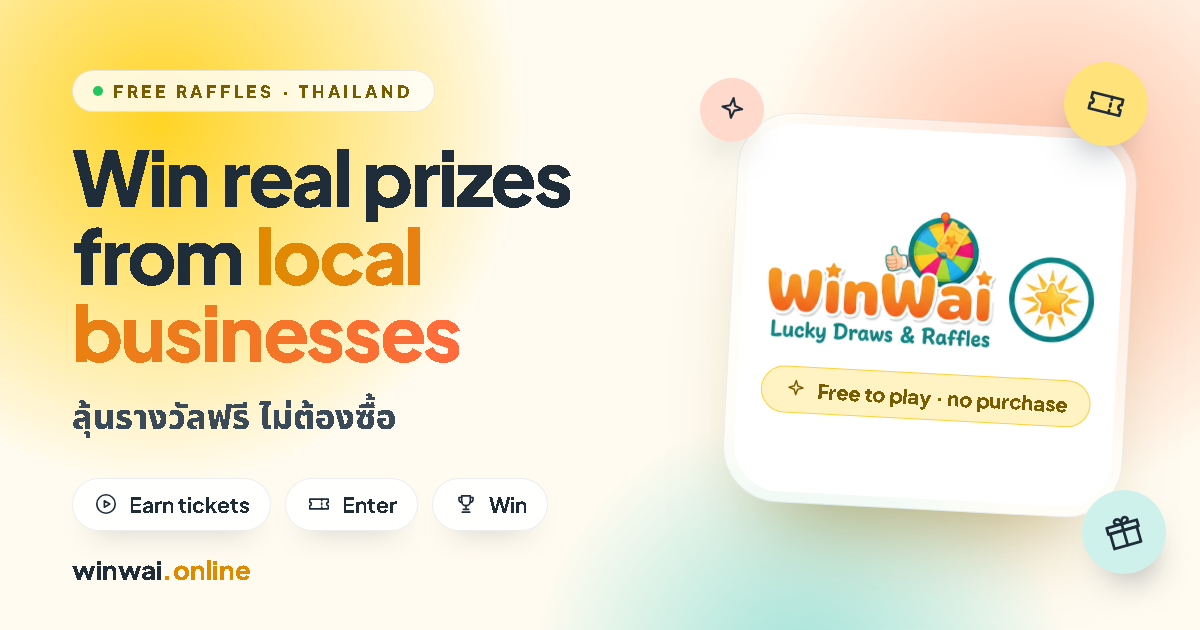
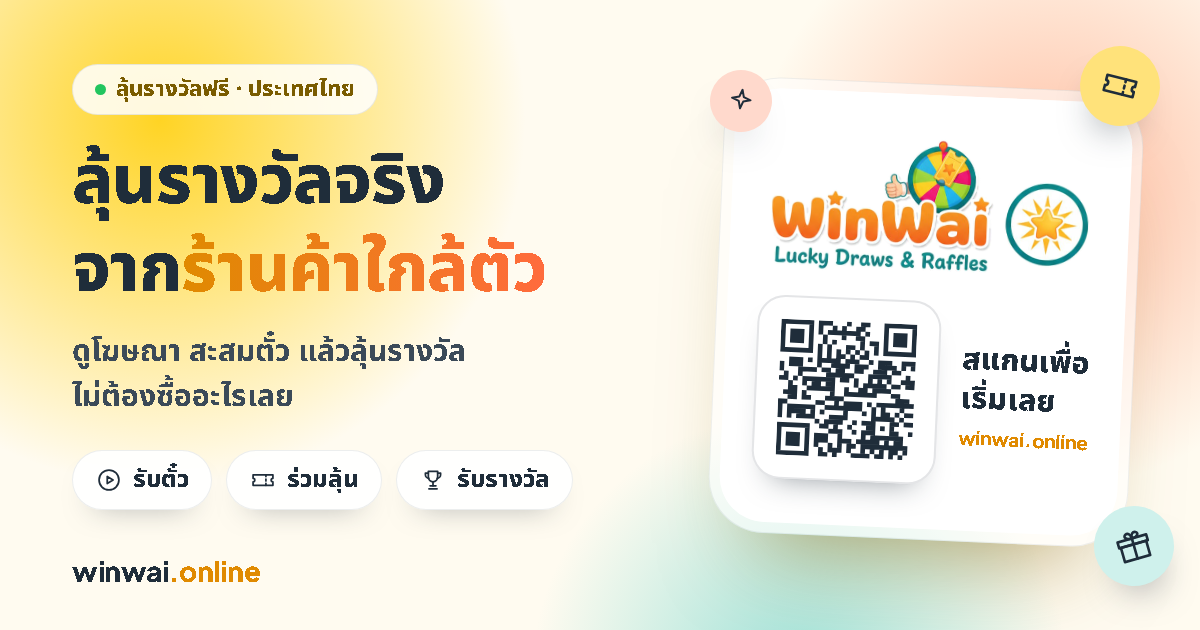
feat(seo): Thai share image with a QR code to winwai.online

diff --git a/frontend/design/og-image.html b/frontend/design/og-image.html
@@ -1,17 +1,20 @@
 <!doctype html>
-<!-- Source of public/og-image.png (1200x630 share image). Regenerate with headless Edge/Chrome:
+<!-- Source of public/og-image.png (1200x630 share image, Thai, with a QR code to https://winwai.online/).
+     The QR is inline SVG made with: python -m pip install segno; segno.make("https://winwai.online/", error="h").svg_inline(scale=1, border=0, dark="#1F2D3A", light=None, omitsize=True)
+     Regenerate the PNG with headless Edge/Chrome:
      msedge --headless --hide-scrollbars --window-size=1200,630 --virtual-time-budget=10000 --screenshot=public/og-image.png file:///<path>/design/og-image.html -->
-<html>
+
+<html lang="th">
 <head>
 <meta charset="utf-8" />
 <link rel="preconnect" href="https://fonts.googleapis.com" />
 <link rel="preconnect" href="https://fonts.gstatic.com" crossorigin />
-<link href="https://fonts.googleapis.com/css2?family=Noto+Sans+Thai:wght@700;800&family=Plus+Jakarta+Sans:wght@500;700;800&display=swap" rel="stylesheet" />
+<link href="https://fonts.googleapis.com/css2?family=Noto+Sans+Thai:wght@500;700;800&family=Plus+Jakarta+Sans:wght@700;800&display=swap" rel="stylesheet" />
 <style>
   * { box-sizing: border-box; margin: 0; padding: 0; }
   html, body { width: 1200px; height: 630px; overflow: hidden; }
   body {
-    font-family: 'Plus Jakarta Sans', 'Noto Sans Thai', system-ui, sans-serif;
+    font-family: 'Noto Sans Thai', 'Plus Jakarta Sans', system-ui, sans-serif;
     color: #1F2D3A;
     background: #FFFBF0;
     position: relative;
@@ -21,53 +24,55 @@
   .o2 { width: 620px; height: 620px; right: -160px; top: -120px; background: radial-gradient(circle at 50% 50%, rgba(255,138,96,0.55), rgba(255,255,255,0) 68%); }
   .o3 { width: 560px; height: 560px; right: 120px; bottom: -330px; background: radial-gradient(circle at 50% 50%, rgba(78,205,196,0.55), rgba(255,255,255,0) 68%); }
 
-  .left { position: absolute; left: 72px; top: 70px; width: 640px; }
+  .left { position: absolute; left: 72px; top: 64px; width: 640px; }
   .eyebrow {
     display: inline-flex; align-items: center; gap: 10px;
-    background: rgba(255,255,255,0.8); border: 1px solid rgba(44,62,80,0.10);
-    border-radius: 999px; padding: 9px 20px;
-    font-size: 17px; font-weight: 800; letter-spacing: 0.22em; text-transform: uppercase; color: #7A5C00;
+    background: rgba(255,255,255,0.85); border: 1px solid rgba(44,62,80,0.10);
+    border-radius: 999px; padding: 8px 22px;
+    font-size: 22px; font-weight: 800; color: #7A5C00;
   }
-  .dot { width: 10px; height: 10px; border-radius: 50%; background: #22C55E; }
-  h1 { margin-top: 26px; font-size: 76px; line-height: 1.02; font-weight: 800; letter-spacing: -0.03em; }
+  .dot { width: 11px; height: 11px; border-radius: 50%; background: #22C55E; }
+  h1 { margin-top: 24px; font-size: 68px; line-height: 1.3; font-weight: 800; letter-spacing: -0.01em; }
   h1 span { background: linear-gradient(90deg, #E08A00, #FF6B3D); -webkit-background-clip: text; background-clip: text; color: transparent; }
-  .thai { margin-top: 22px; font-family: 'Noto Sans Thai', 'Plus Jakarta Sans', sans-serif; font-size: 34px; font-weight: 800; color: #3B4A58; }
-  .chips { margin-top: 34px; display: flex; gap: 14px; }
+  .sub { margin-top: 14px; font-size: 30px; line-height: 1.5; font-weight: 700; color: #3B4A58; }
+  .chips { margin-top: 30px; display: flex; gap: 14px; }
   .chip {
     display: flex; align-items: center; gap: 10px;
-    background: rgba(255,255,255,0.9); border: 1px solid rgba(44,62,80,0.09);
-    border-radius: 999px; padding: 12px 20px; font-size: 21px; font-weight: 700;
+    background: rgba(255,255,255,0.92); border: 1px solid rgba(44,62,80,0.09);
+    border-radius: 999px; padding: 11px 22px; font-size: 24px; font-weight: 800;
     box-shadow: 0 16px 30px -22px rgba(31,45,58,0.5);
   }
-  svg { fill: none; stroke: #1F2D3A; stroke-width: 1.5; stroke-linecap: round; stroke-linejoin: round; }
+  svg.i { fill: none; stroke: #1F2D3A; stroke-width: 1.5; stroke-linecap: round; stroke-linejoin: round; }
 
-  /* right: nested bezel card holding the logo */
   .shell {
-    position: absolute; right: 70px; top: 120px; width: 400px; height: 390px;
+    position: absolute; right: 64px; top: 84px; width: 420px; height: 456px;
     padding: 10px; border-radius: 56px;
     background: rgba(255,255,255,0.55); border: 1.5px solid rgba(44,62,80,0.08);
-    transform: rotate(3deg);
+    transform: rotate(2.5deg);
     box-shadow: 0 60px 90px -50px rgba(122,92,0,0.55);
   }
   .core {
     width: 100%; height: 100%; border-radius: 46px; background: #fff;
-    display: flex; flex-direction: column; align-items: center; justify-content: center; gap: 22px;
+    display: flex; flex-direction: column; align-items: center; justify-content: center; gap: 26px;
     box-shadow: inset 0 2px 2px rgba(255,255,255,0.9);
   }
-  .core img { width: 330px; height: auto; }
-  .tag {
-    display: flex; align-items: center; gap: 10px;
-    background: #FFF3C4; border: 1px solid rgba(255,194,0,0.7); border-radius: 999px;
-    padding: 10px 22px; font-size: 20px; font-weight: 800; color: #7A5C00;
+  .core img.logo { width: 320px; height: auto; }
+  .scan { display: flex; align-items: center; gap: 22px; }
+  .qr {
+    width: 184px; height: 184px; padding: 22px; border-radius: 28px; background: #fff;
+    border: 2px solid rgba(31,45,58,0.12);
+    box-shadow: 0 18px 30px -20px rgba(31,45,58,0.5);
   }
+  .qr svg { width: 100%; height: 100%; display: block; }
+  .scan-text { font-size: 30px; line-height: 1.3; font-weight: 800; }
+  .scan-text small { display: block; margin-top: 6px; font-family: 'Plus Jakarta Sans', sans-serif; font-size: 19px; font-weight: 800; color: #E08A00; }
 
   .float { position: absolute; }
-  .f1 { right: 52px; top: 62px; transform: rotate(14deg); }
-  .f2 { right: 470px; bottom: 44px; transform: rotate(-12deg); }
-  .f3 { right: 34px; bottom: 56px; transform: rotate(-16deg); }
-  .f4 { left: 700px; top: 78px; transform: rotate(8deg); }
-  .disc { width: 84px; height: 84px; border-radius: 42px; display: flex; align-items: center; justify-content: center; box-shadow: 0 24px 36px -22px rgba(31,45,58,0.55); }
-  .url { position: absolute; left: 72px; bottom: 44px; font-size: 26px; font-weight: 800; color: #1F2D3A; letter-spacing: -0.01em; }
+  .f1 { right: 40px; top: 46px; transform: rotate(14deg); }
+  .f3 { right: 26px; bottom: 44px; transform: rotate(-16deg); }
+  .f4 { left: 710px; top: 70px; transform: rotate(8deg); }
+  .disc { width: 80px; height: 80px; border-radius: 40px; display: flex; align-items: center; justify-content: center; box-shadow: 0 24px 36px -22px rgba(31,45,58,0.55); }
+  .url { position: absolute; left: 72px; bottom: 42px; font-family: 'Plus Jakarta Sans', sans-serif; font-size: 28px; font-weight: 800; letter-spacing: -0.01em; }
   .url b { color: #E08A00; }
 </style>
 </head>
@@ -75,26 +80,29 @@
   <div class="orb o1"></div><div class="orb o2"></div><div class="orb o3"></div>
 
   <div class="left">
-    <div class="eyebrow"><span class="dot"></span>Free raffles &middot; Thailand</div>
-    <h1>Win real prizes from <span>local businesses</span></h1>
-    <div class="thai">ลุ้นรางวัลฟรี ไม่ต้องซื้อ</div>
+    <div class="eyebrow"><span class="dot"></span>ลุ้นรางวัลฟรี · ประเทศไทย</div>
+    <h1>ลุ้นรางวัลจริง<br />จาก<span>ร้านค้าใกล้ตัว</span></h1>
+    <div class="sub">ดูโฆษณา สะสมตั๋ว แล้วลุ้นรางวัล<br />ไม่ต้องซื้ออะไรเลย</div>
     <div class="chips">
-      <div class="chip"><svg width="26" height="26" viewBox="0 0 24 24"><path d="M12 3.5a8.5 8.5 0 1 0 0 17 8.5 8.5 0 0 0 0-17z"/><path d="M10.5 9v6l5-3z"/></svg>Earn tickets</div>
-      <div class="chip"><svg width="26" height="26" viewBox="0 0 24 24"><path d="M3.5 7.5h17v3a1.5 1.5 0 0 0 0 3v3h-17v-3a1.5 1.5 0 0 0 0-3z"/><path d="M14.5 7.5v1.6M14.5 11.2v1.6M14.5 14.9v1.6"/></svg>Enter</div>
-      <div class="chip"><svg width="26" height="26" viewBox="0 0 24 24"><path d="M8 4.5h8v5a4 4 0 0 1-8 0z"/><path d="M8 6H5.5v1.5a3 3 0 0 0 3 3"/><path d="M16 6h2.5v1.5a3 3 0 0 1-3 3"/><path d="M12 13.5V17"/><path d="M9.5 17h5"/><path d="M8.5 19.5h7"/></svg>Win</div>
+      <div class="chip"><svg class="i" width="28" height="28" viewBox="0 0 24 24"><path d="M12 3.5a8.5 8.5 0 1 0 0 17 8.5 8.5 0 0 0 0-17z"/><path d="M10.5 9v6l5-3z"/></svg>รับตั๋ว</div>
+      <div class="chip"><svg class="i" width="28" height="28" viewBox="0 0 24 24"><path d="M3.5 7.5h17v3a1.5 1.5 0 0 0 0 3v3h-17v-3a1.5 1.5 0 0 0 0-3z"/><path d="M14.5 7.5v1.6M14.5 11.2v1.6M14.5 14.9v1.6"/></svg>ร่วมลุ้น</div>
+      <div class="chip"><svg class="i" width="28" height="28" viewBox="0 0 24 24"><path d="M8 4.5h8v5a4 4 0 0 1-8 0z"/><path d="M8 6H5.5v1.5a3 3 0 0 0 3 3"/><path d="M16 6h2.5v1.5a3 3 0 0 1-3 3"/><path d="M12 13.5V17"/><path d="M9.5 17h5"/><path d="M8.5 19.5h7"/></svg>รับรางวัล</div>
     </div>
   </div>
 
   <div class="shell">
     <div class="core">
-      <img src="../public/logo.png" />
-      <div class="tag"><svg width="24" height="24" viewBox="0 0 24 24" style="stroke:#7A5C00"><path d="M12 3.5l1.7 5.3 5.3 1.7-5.3 1.7L12 17.5l-1.7-5.3L5 10.5l5.3-1.7z"/></svg>Free to play &middot; no purchase</div>
+      <img class="logo" src="../public/logo.png" />
+      <div class="scan">
+        <div class="qr"><svg viewBox="0 0 29 29" class="segno"><path class="qrline" stroke="#1f2d3a" d="M0 0.5h7m1 0h3m3 0h1m2 0h2m3 0h7m-29 1h1m5 0h1m1 0h1m2 0h1m1 0h1m2 0h2m4 0h1m5 0h1m-29 1h1m1 0h3m1 0h1m1 0h1m1 0h7m1 0h1m3 0h1m1 0h3m1 0h1m-29 1h1m1 0h3m1 0h1m2 0h1m3 0h1m2 0h2m4 0h1m1 0h3m1 0h1m-29 1h1m1 0h3m1 0h1m2 0h1m1 0h1m5 0h1m1 0h2m1 0h1m1 0h3m1 0h1m-29 1h1m5 0h1m1 0h1m1 0h1m3 0h2m1 0h1m2 0h1m1 0h1m5 0h1m-29 1h7m1 0h1m1 0h1m1 0h1m1 0h1m1 0h1m1 0h1m1 0h1m1 0h7m-21 1h1m1 0h1m1 0h2m1 0h1m1 0h2m-17 1h3m1 0h1m1 0h5m1 0h3m2 0h1m1 0h3m2 0h3m-29 1h1m1 0h3m3 0h1m2 0h4m1 0h3m2 0h4m1 0h1m1 0h1m-29 1h1m3 0h4m1 0h2m1 0h2m2 0h2m2 0h3m1 0h2m-25 1h1m2 0h1m5 0h6m3 0h5m3 0h1m-28 1h2m1 0h1m1 0h7m1 0h2m1 0h1m2 0h1m1 0h1m1 0h1m2 0h3m-27 1h1m2 0h1m1 0h2m1 0h2m4 0h1m1 0h5m1 0h2m1 0h2m-27 1h2m2 0h6m2 0h1m2 0h2m1 0h4m-23 1h3m1 0h1m5 0h1m2 0h7m3 0h2m-24 1h2m1 0h2m3 0h4m11 0h3m-28 1h2m6 0h2m2 0h1m1 0h4m1 0h1m1 0h8m-29 1h1m1 0h6m2 0h8m2 0h1m1 0h1m3 0h1m-27 1h1m1 0h4m1 0h1m1 0h1m4 0h1m3 0h1m1 0h1m1 0h2m1 0h1m1 0h2m-29 1h1m1 0h1m1 0h4m3 0h4m5 0h5m1 0h1m-19 1h1m1 0h4m2 0h1m1 0h3m3 0h2m1 0h2m-29 1h7m2 0h2m1 0h1m2 0h1m3 0h2m1 0h1m1 0h1m-25 1h1m5 0h1m4 0h3m2 0h1m1 0h3m3 0h2m2 0h1m-29 1h1m1 0h3m1 0h1m1 0h3m2 0h1m4 0h1m1 0h7m-27 1h1m1 0h3m1 0h1m1 0h3m2 0h3m1 0h5m1 0h1m1 0h2m-27 1h1m1 0h3m1 0h1m1 0h1m2 0h1m1 0h1m1 0h2m1 0h10m-28 1h1m5 0h1m2 0h1m1 0h3m1 0h1m2 0h1m1 0h1m1 0h1m1 0h2m1 0h1m-28 1h7m2 0h2m1 0h1m3 0h4m1 0h2m1 0h1m1 0h1"/></svg></div>
+        <div class="scan-text">สแกนเพื่อ<br />เริ่มเลย<small>winwai.online</small></div>
+      </div>
     </div>
   </div>
 
-  <div class="float f1"><div class="disc" style="background:#FFE27A"><svg width="44" height="44" viewBox="0 0 24 24"><path d="M3.5 7.5h17v3a1.5 1.5 0 0 0 0 3v3h-17v-3a1.5 1.5 0 0 0 0-3z"/><path d="M14.5 7.5v1.6M14.5 11.2v1.6M14.5 14.9v1.6"/></svg></div></div>
-  <div class="float f3"><div class="disc" style="background:#CFF1EC"><svg width="44" height="44" viewBox="0 0 24 24"><path d="M4.5 11h15v8.5h-15z"/><path d="M3.5 7.5h17V11h-17z"/><path d="M12 7.5v12"/><path d="M12 7.5C12 5 10.5 3.8 9 4.5S8 7.5 12 7.5z"/><path d="M12 7.5c0-2.5 1.5-3.7 3-3s1 3-3 3z"/></svg></div></div>
-  <div class="float f4"><div class="disc" style="background:#FFD9CC;width:64px;height:64px;border-radius:32px"><svg width="34" height="34" viewBox="0 0 24 24"><path d="M12 3.5l1.7 5.3 5.3 1.7-5.3 1.7L12 17.5l-1.7-5.3L5 10.5l5.3-1.7z"/></svg></div></div>
+  <div class="float f1"><div class="disc" style="background:#FFE27A"><svg class="i" width="42" height="42" viewBox="0 0 24 24"><path d="M3.5 7.5h17v3a1.5 1.5 0 0 0 0 3v3h-17v-3a1.5 1.5 0 0 0 0-3z"/><path d="M14.5 7.5v1.6M14.5 11.2v1.6M14.5 14.9v1.6"/></svg></div></div>
+  <div class="float f3"><div class="disc" style="background:#CFF1EC"><svg class="i" width="42" height="42" viewBox="0 0 24 24"><path d="M4.5 11h15v8.5h-15z"/><path d="M3.5 7.5h17V11h-17z"/><path d="M12 7.5v12"/><path d="M12 7.5C12 5 10.5 3.8 9 4.5S8 7.5 12 7.5z"/><path d="M12 7.5c0-2.5 1.5-3.7 3-3s1 3-3 3z"/></svg></div></div>
+  <div class="float f4"><div class="disc" style="background:#FFD9CC;width:62px;height:62px;border-radius:31px"><svg class="i" width="32" height="32" viewBox="0 0 24 24"><path d="M12 3.5l1.7 5.3 5.3 1.7-5.3 1.7L12 17.5l-1.7-5.3L5 10.5l5.3-1.7z"/></svg></div></div>
 
   <div class="url">winwai<b>.online</b></div>
 </body>

diff --git a/frontend/app/+html.tsx b/frontend/app/+html.tsx
@@ -59,7 +59,7 @@ export default function Root({ children }: PropsWithChildren) {
         <meta property="og:image:type" content="image/png" />
         <meta property="og:image:width" content="1200" />
         <meta property="og:image:height" content="630" />
-        <meta property="og:image:alt" content="WinWai - win real prizes from local businesses in Thailand" />
+        <meta property="og:image:alt" content="WinWai - ลุ้นรางวัลจริงจากร้านค้าใกล้ตัว สแกน QR เพื่อเริ่มเลย" />
         <meta property="og:url" content="https://winwai.online/" />
         <meta property="og:locale" content="th_TH" />
         <meta property="og:locale:alternate" content="en_US" />
@@ -69,7 +69,7 @@ export default function Root({ children }: PropsWithChildren) {
         <meta name="twitter:title" content="WinWai - Free raffles with local businesses in Thailand" />
         <meta name="twitter:description" content="WinWai: free raffles with local businesses in Thailand. Earn tickets, enter raffles and win real prizes - meals, stays, services. ลุ้นรางวัลฟรี ไม่ต้องซื้อ" />
         <meta name="twitter:image" content="https://winwai.online/og-image.png" />
-        <meta name="twitter:image:alt" content="WinWai - win real prizes from local businesses in Thailand" />
+        <meta name="twitter:image:alt" content="WinWai - ลุ้นรางวัลจริงจากร้านค้าใกล้ตัว สแกน QR เพื่อเริ่มเลย" />
         <link rel="alternate" type="text/plain" href="/llms.txt" title="WinWai summary for AI assistants" />
         <script type="application/ld+json" dangerouslySetInnerHTML={{ __html: JSON_LD }} />
         <meta name="mobile-web-app-capable" content="yes" />
